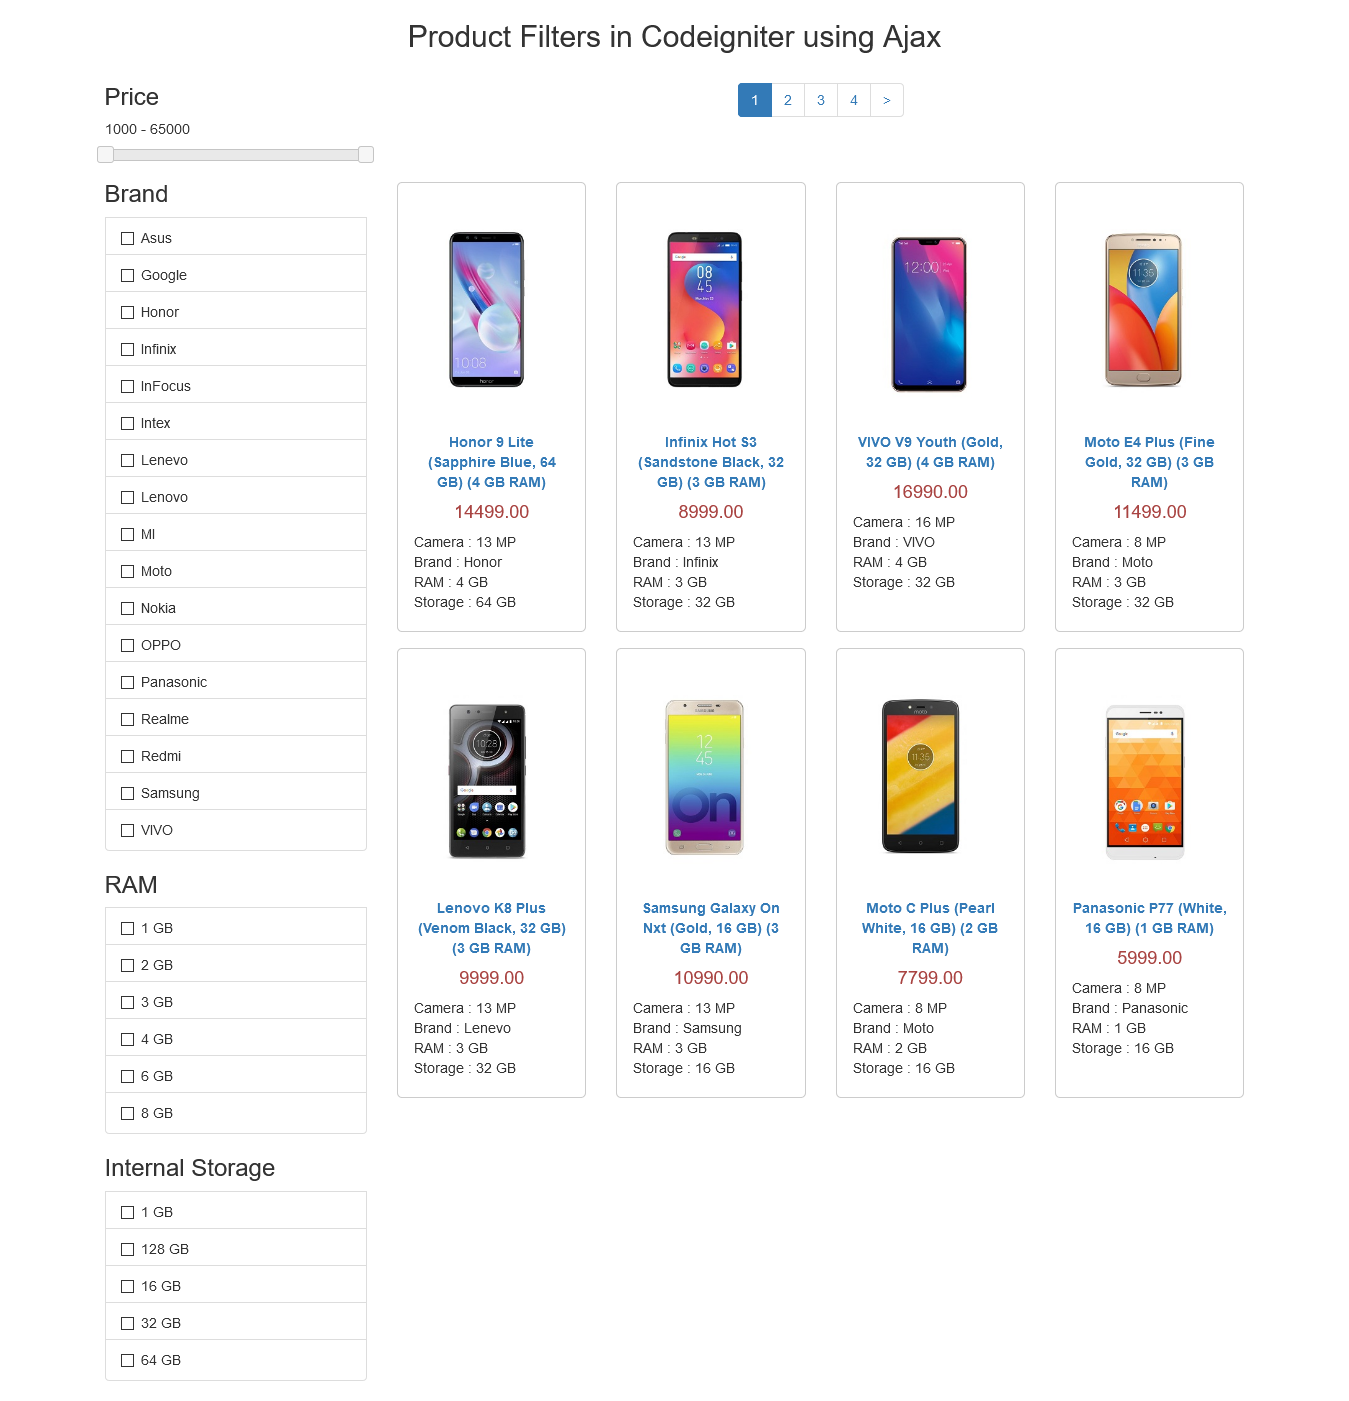
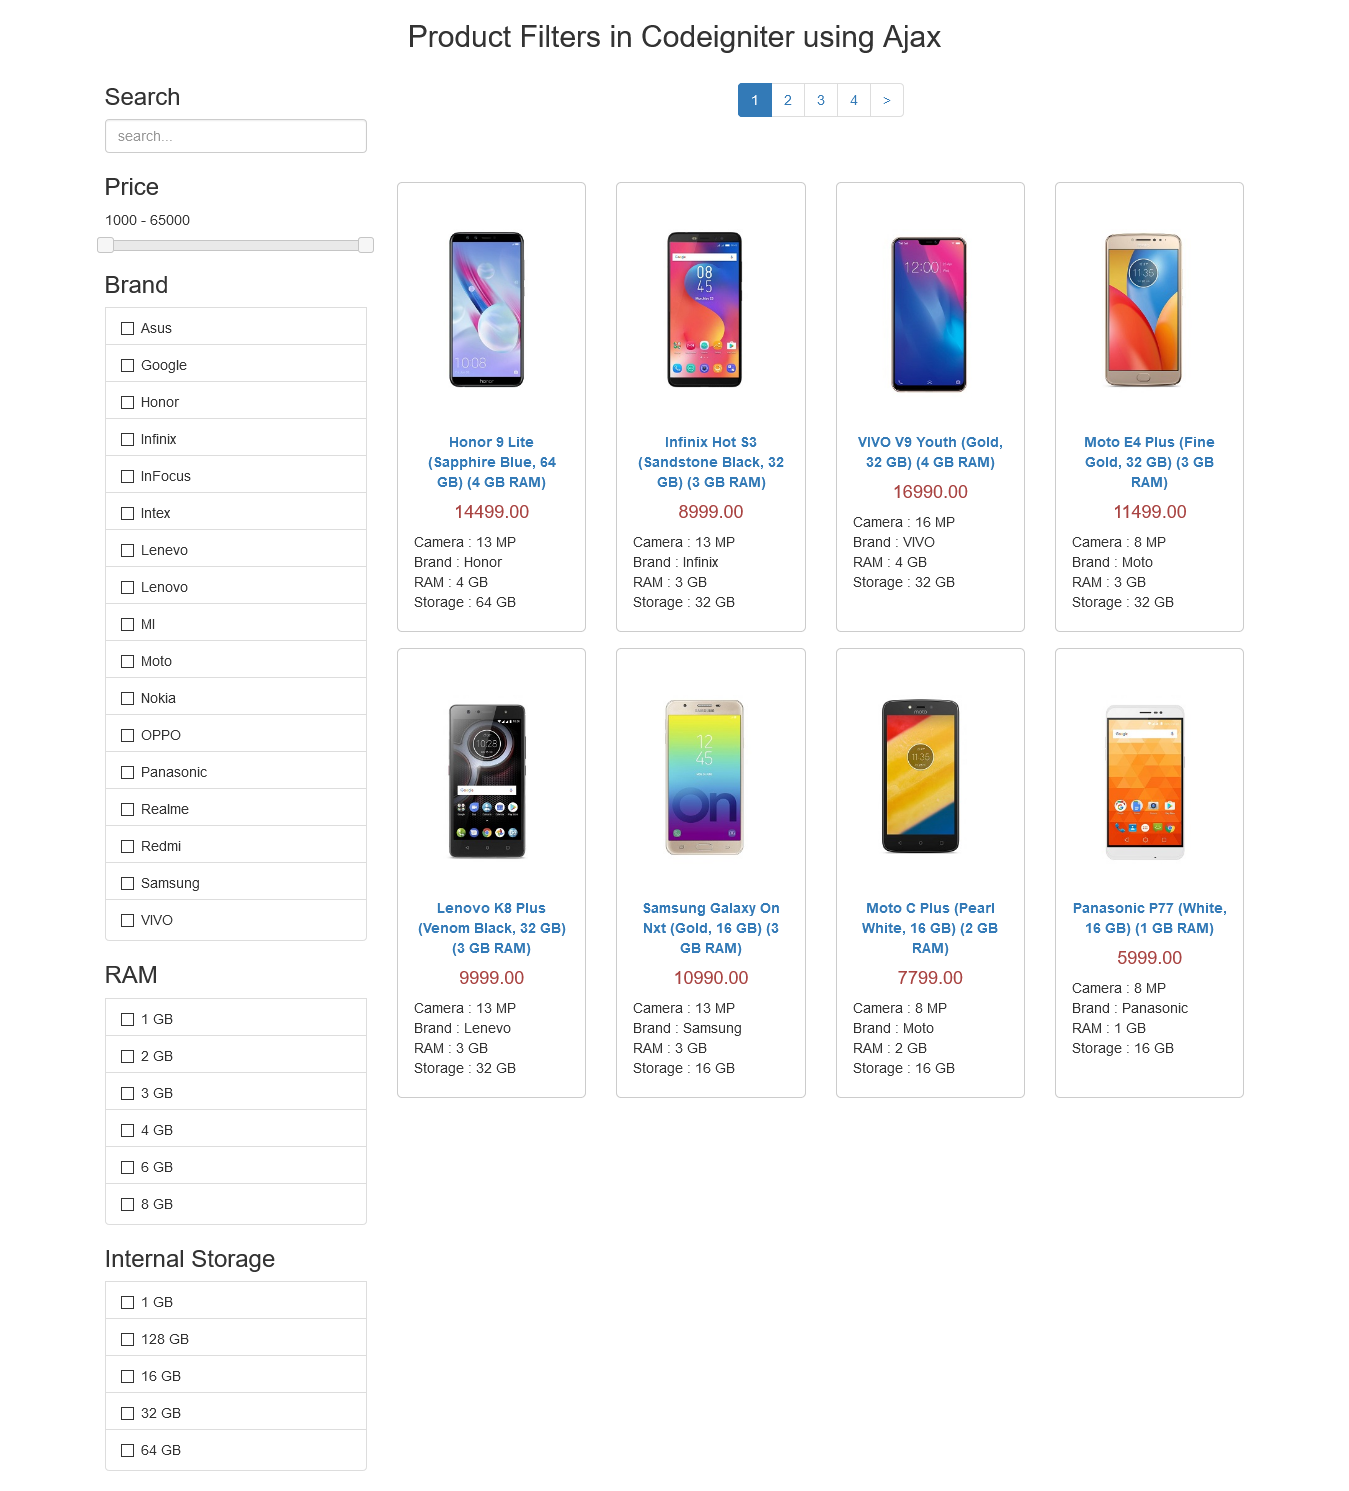
add search feature

diff --git a/application/views/product_view.php b/application/views/product_view.php
@@ -10,9 +10,8 @@
     
     <!-- Bootstrap Core CSS -->    
     <link rel="stylesheet" href="https://maxcdn.bootstrapcdn.com/bootstrap/3.3.6/css/bootstrap.min.css">
-    <link href = "<?php echo base_url(); ?>asset/jquery-ui.css" rel = "stylesheet">
-    <!-- Custom CSS -->
-    <link href="<?php echo base_url(); ?>asset/style.css" rel="stylesheet">
+    <link rel="stylesheet" href="//code.jquery.com/ui/1.12.1/themes/base/jquery-ui.css">    
+    <!-- Custom CSS -->        
     <style>
         #loading {
             text-align: center;
@@ -30,7 +29,11 @@
             </div>
         </div>
         <div class="row">
-            <div class="col-md-3">                
+            <div class="col-md-3">      
+                <div class="list-group">
+                    <h3>Search</h3>
+                    <input type="text" id="search" class="form-control" placeholder="search...">
+                </div>          
                 <div class="list-group">
                     <h3>Price</h3>
                     <input type="hidden" id="hidden_minimum_price" value="0" />
@@ -97,14 +100,19 @@
     </div>
     <!-- javascript cdn -->
     <script src="https://ajax.googleapis.com/ajax/libs/jquery/2.2.0/jquery.min.js"></script>
-    <script src="https://code.jquery.com/ui/1.12.1/jquery-ui.min.js"></script>
+    <script src="https://code.jquery.com/ui/1.12.1/jquery-ui.min.js"></script>      
     <script src="https://maxcdn.bootstrapcdn.com/bootstrap/3.3.6/js/bootstrap.min.js"></script>
     <script>
         $(document).ready(function () {            
+            var timer
+            var delay = 600
+
             filter_data(1) // get all data and display page 1
+
             function filter_data(page) {                
                 $('.filter_data').html("<div id='loading'></div>")
-                var action = 'fetch_data'
+                var action = 'fetch_data'                
+                var keyword = $('#search').val()
                 var minimum_price = $('#hidden_minimum_price').val()
                 var maximum_price = $('#hidden_maximum_price').val()
                 var brand = get_filter('brand')
@@ -115,7 +123,8 @@
                     method: "POST",
                     dataType: "JSON",
                     data: {
-                        action: action,
+                        action: action,                    
+                        keyword: keyword,
                         minimum_price: minimum_price,
                         maximum_price: maximum_price,
                         brand: brand,
@@ -146,7 +155,7 @@
                         $('.filter_data').html(msg)
                     },
                 })
-            }
+            }            
 
             function get_filter(class_name) {
                 var filter = []
@@ -182,6 +191,13 @@
                     $('#hidden_maximum_price').val(ui.values[1])
                     filter_data(1)
                 }
+            })
+
+            $('#search').bind('input', function() {
+                window.clearTimeout(timer)
+                timer = window.setTimeout(function() {                    
+                    filter_data(1)
+                }, delay)
             })
         })        
     </script>

diff --git a/application/models/Product_model.php b/application/models/Product_model.php
@@ -12,53 +12,49 @@ class Product_model extends CI_MODEL
         return $this->db->get();
     }
 
-    function make_query($minimum_price, $maximum_price, $brand, $ram, $storage)
+    function make_query($keyword, $minimum_price, $maximum_price, $brand, $ram, $storage)
     {
         $query = "
         SELECT * FROM Product
         WHERE product_status = '1'
         ";
 
+        if($keyword != "") {
+            $query .= " AND product_name LIKE '%".$keyword."%'";
+        }
+
         if(isset($minimum_price, $maximum_price) && !empty($minimum_price) && !empty($maximum_price)) {
-            $query .= "
-             AND product_price BETWEEN '".$minimum_price."' AND '".$maximum_price."'
-            ";
+            $query .= " AND product_price BETWEEN '".$minimum_price."' AND '".$maximum_price."'";
         }
 
         if(isset($brand)) {
             $brand_filter = implode("','", $brand);
-            $query .= "
-             AND product_brand IN('".$brand_filter."')
-            ";
+            $query .= " AND product_brand IN('".$brand_filter."')";
         }
 
         if(isset($ram)) {
             $ram_filter = implode("','", $ram);
-            $query .= "
-             AND product_ram IN('".$ram_filter."')
-            ";
+            $query .= " AND product_ram IN('".$ram_filter."')";
         }
 
         if(isset($storage)) {
             $storage_filter = implode("','", $storage);
-            $query .= "
-             AND product_storage IN('".$storage_filter."')
-            ";
+            $query .= " AND product_storage IN('".$storage_filter."')";
         }
 
         return $query;
     }
 
-    function count_all($minimum_price, $maximum_price, $brand, $ram, $storage)
+    function count_all($keyword, $minimum_price, $maximum_price, $brand, $ram, $storage)
     {
-        $query = $this->make_query($minimum_price, $maximum_price, $brand, $ram, $storage);
+        $query = $this->make_query($keyword, $minimum_price, $maximum_price, $brand, $ram, $storage);
         $data = $this->db->query($query);
         return $data->num_rows();
     }
     
-    function fetch_data($limit, $start, $minimum_price, $maximum_price, $brand, $ram, $storage)
+    function fetch_data($limit, $start, $keyword, $minimum_price, $maximum_price, $brand, $ram, $storage)
     {
-        $query = $this->make_query($minimum_price, $maximum_price, $brand, $ram, $storage);
+        $query = $this->make_query($keyword, $minimum_price, $maximum_price, $brand, $ram, $storage);
         $query .= ' LIMIT '.$start.', '.$limit;
 
         $data = $this->db->query($query);
@@ -90,6 +86,6 @@ class Product_model extends CI_MODEL
             $output = '<h3 style="text-align: center">No Data Found</h3>';
         }
         return $output;
-    }
+    }    
 }
 ?>

diff --git a/application/controllers/Products.php b/application/controllers/Products.php
@@ -18,6 +18,7 @@ class Products extends CI_Controller {
 
     public function fetch_data()
     {
+        $keyword = $this->input->post('keyword');
         $minimum_price = $this->input->post('minimum_price');
         $maximum_price = $this->input->post('maximum_price');
         $brand = $this->input->post('brand');
@@ -26,7 +27,7 @@ class Products extends CI_Controller {
         $this->load->library('pagination');
         $config = array();
         $config["base_url"] = "#";        
-		$config["total_rows"] = $this->product_model->count_all($minimum_price, $maximum_price, $brand, $ram, $storage);
+		$config["total_rows"] = $this->product_model->count_all($keyword, $minimum_price, $maximum_price, $brand, $ram, $storage);
         $config['per_page'] = 8;		
         $config['uri_segment'] = 3;		
         $config['use_page_numbers'] = TRUE;		
@@ -55,6 +56,7 @@ class Products extends CI_Controller {
             'product_list' => $this->product_model->fetch_data(
                 $config["per_page"], 
                 $start,
+                $keyword,
                 $minimum_price,
                 $maximum_price,
                 $brand,
@@ -63,5 +65,5 @@ class Products extends CI_Controller {
             )
         );        
         echo json_encode($output);
-    }
+    }    
 }

diff --git a/README.md b/README.md
@@ -1,9 +1,10 @@
 # Product filter using Ajax
-A simple website which is displaying a list of products and filtering product by price, brand, ram, and internal storage. This website build using Codeigniter 3, Bootstrap 3.3.6, and jQuery 2.2.0. This project is developed from [Web Lesson - Ajax Codeigniter Product Filter with Pagination](https://www.webslesson.info/2018/12/ajax-codeigniter-product-filter-with-pagination.html) and fixes the pagination bug.
+A simple website which is displaying a list of products and filtering product by price, brand, ram, and internal storage. This website build using Codeigniter 3, Bootstrap 3.3.6, and jQuery 2.2.0. This project is developed from [Web Lesson - Ajax Codeigniter Product Filter with Pagination](https://www.webslesson.info/2018/12/ajax-codeigniter-product-filter-with-pagination.html).
 
 ### Features
 - Display products
 - Filter product by price, brand, ram, and internal storage
+- Search product by name
 
 ### Screenshot
 ![index page](Screenshot/Screenshot1.png)
